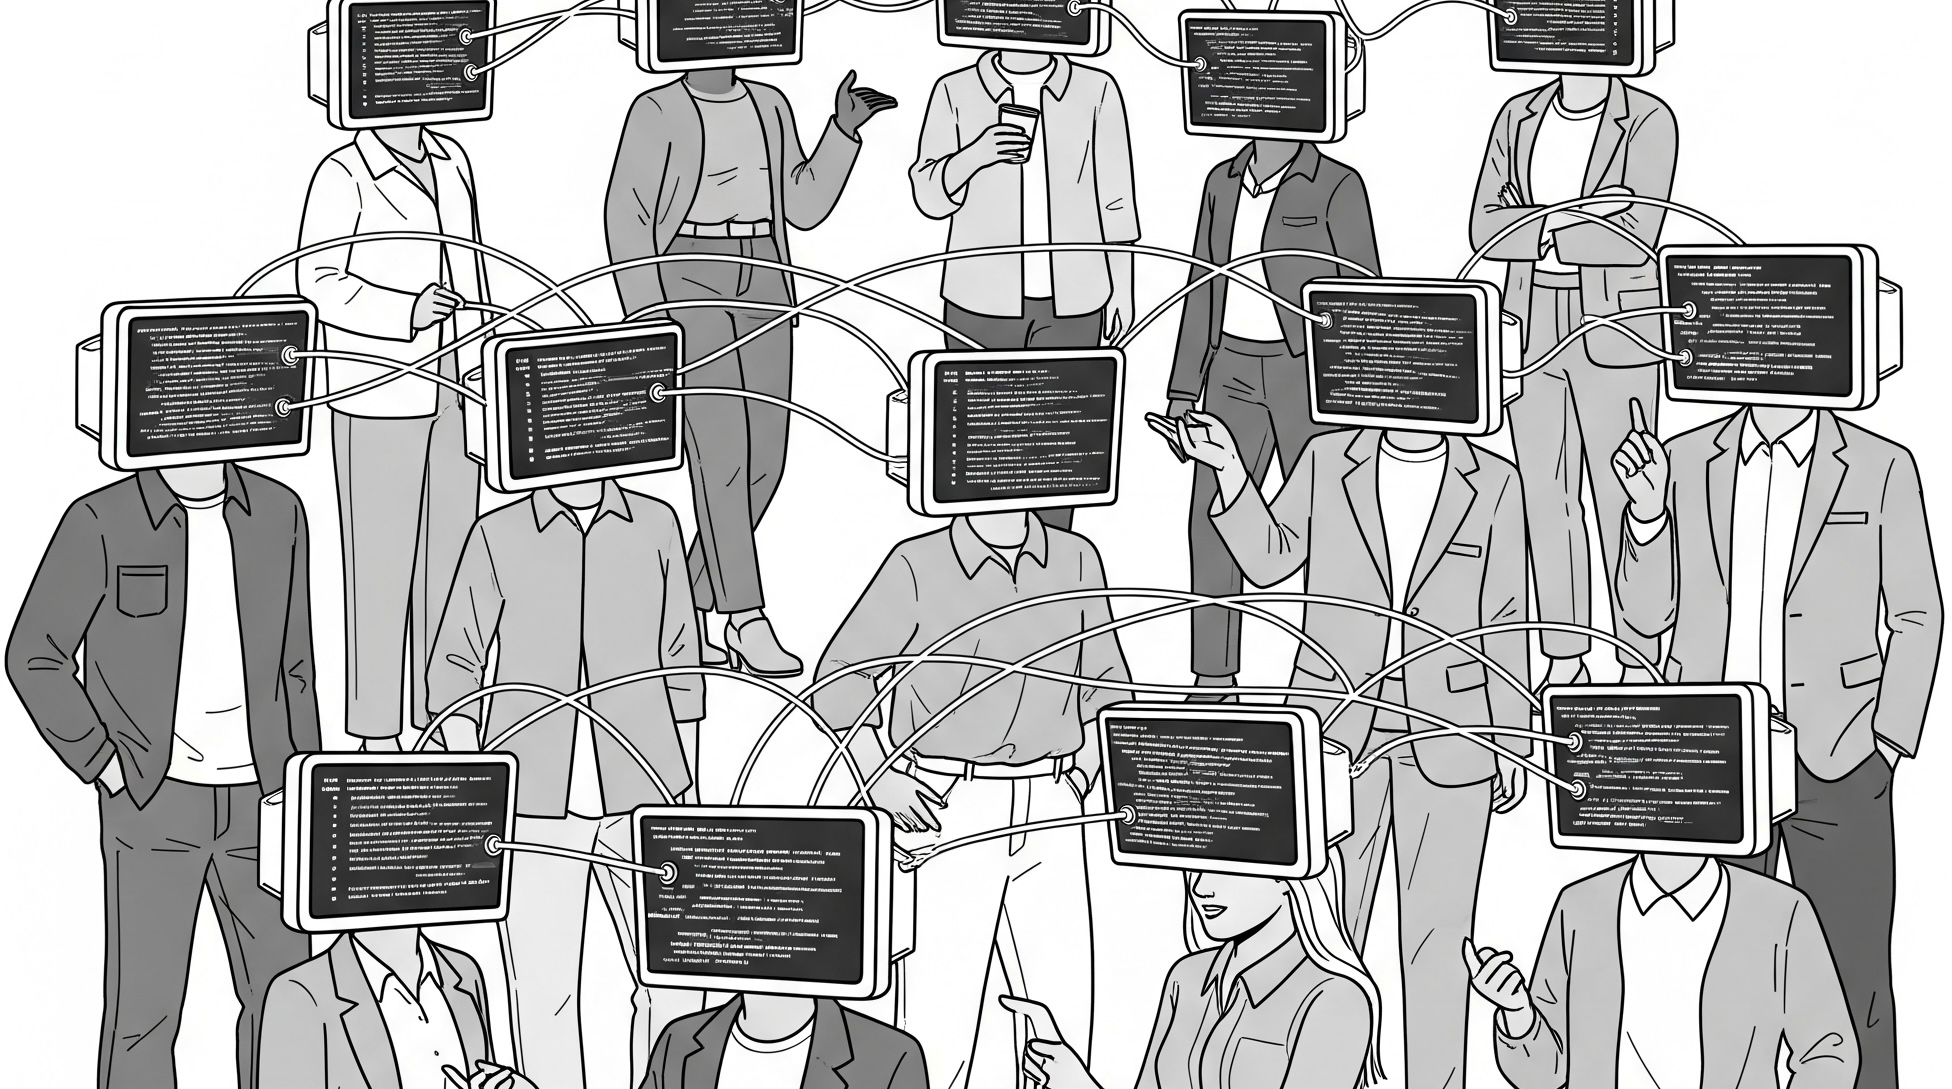
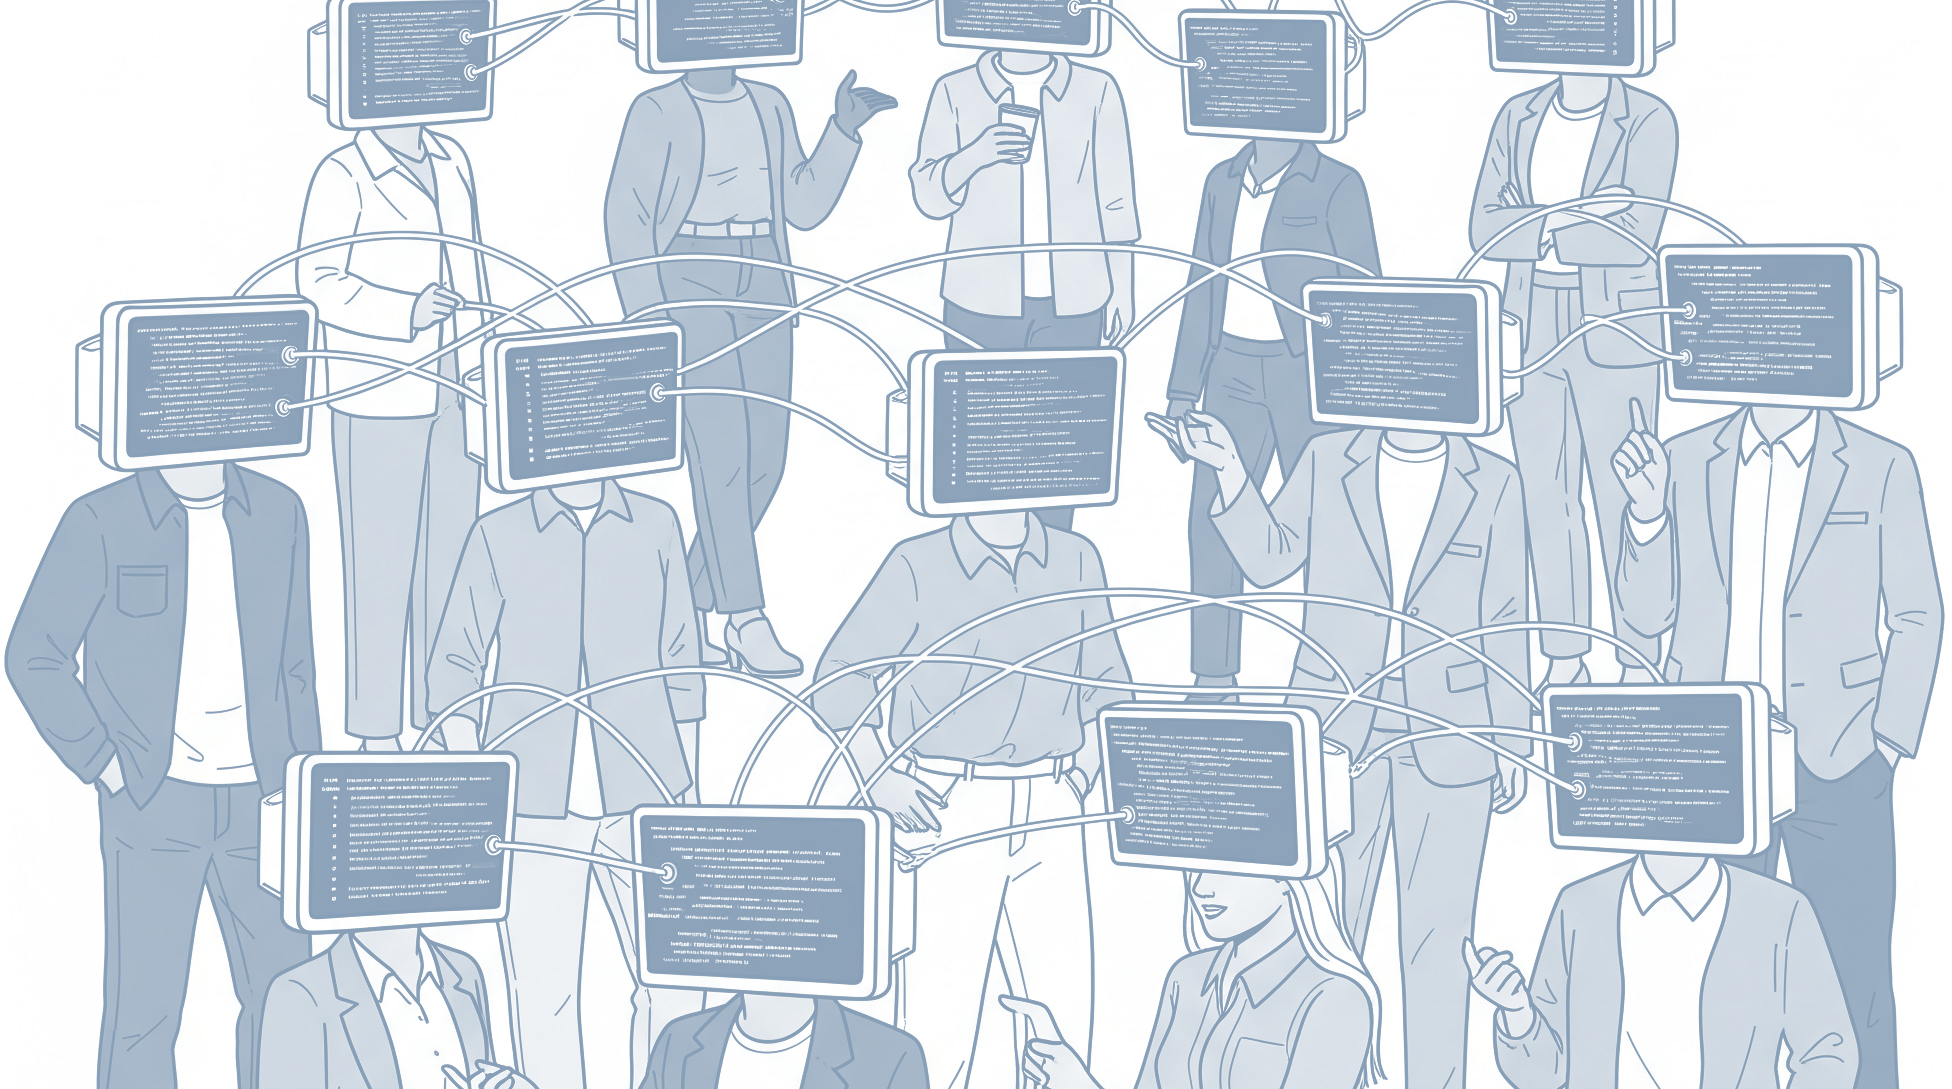
update image credits in README; blue fade

diff --git a/README.md b/README.md
@@ -8,4 +8,4 @@ NB: This is just source code! For the live site, with better formatting, please 
 
 ---
 
-Home page background image generated by Gemini 2.5 Flash with the prompt series "many kinds of people connected by strings of computer code. make the image line-art style." "dress the people in 21st-century clothes and make the aspect ratio suitable for a background image on a website."
+Home page background image generated by Gemini 2.5 Flash with the prompt series "diverse group of people networking, but their heads are computers. lines of code connect people to one another. line art style." "refine image: more space between people, aspect ratio 16:9." "refine: more conversational postures, more varied clothing, more varied race/ethnicity/gender. grayscale."
